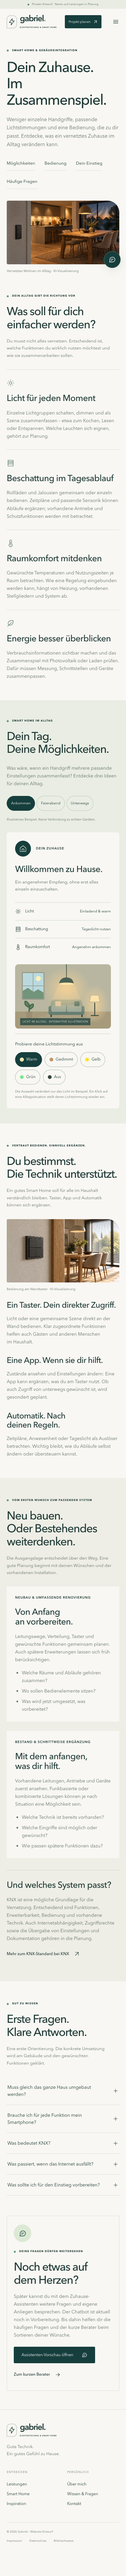
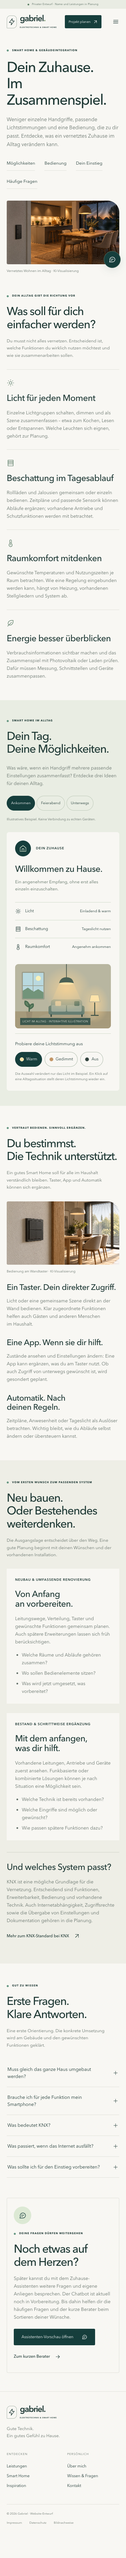
Lichtsimulation auf ruhige alltagstaugliche Stimmungen reduzieren

Changed region(s): [[0.0587, 0.0312, 0.968, 0.9668], [0.0587, 0.9356, 0.1173, 0.9668], [0.9093, 0.8109, 0.9387, 0.8421]]

diff --git a/public/assets/styles.css b/public/assets/styles.css
@@ -1082,9 +1082,6 @@
 @layer components {
   .light-room { --lamp-color:#ffd694; --lamp-surface:#ffe3a9; --room-wall:#72786b; --room-floor:#696554; margin-top:25px; position:relative; border-radius:10px; overflow:hidden; }
   .light-room[data-light="dim"] { --lamp-color:#f8b968; --lamp-surface:#dcb17c; --room-wall:#39463e; --room-floor:#3d4237; }
-  .light-room[data-light="yellow"] { --lamp-color:#ffe027; --lamp-surface:#ffeb78; --room-wall:#777650; --room-floor:#6a6440; }
-  .light-room[data-light="green"] { --lamp-color:#7de78e; --lamp-surface:#adf3b4; --room-wall:#436553; --room-floor:#435d44; }
-  .light-room[data-light="red"] { --lamp-color:#f45c5c; --lamp-surface:#ff8585; --room-wall:#704543; --room-floor:#60403b; }
   .light-room[data-light="off"] { --lamp-color:#000; --lamp-surface:#858a79; --room-wall:#273b3e; --room-floor:#303e3a; }
   .light-room[data-time="day"] { --window-sky:#b9d9df; --sky-light:#fff4b6; --window-landscape:#72947a; }
   .light-room[data-time="day"][data-light="warm"] { --room-wall:#b8b6a0; --room-floor:#a69a7b; }
@@ -1101,8 +1098,7 @@
   .light-options button { display:flex; align-items:center; gap:7px; border:1px solid #a7b6a5; border-radius:25px; background:transparent; padding:10px 13px; min-height:44px; font-size:12px; }
   .light-options button[aria-pressed="true"] { border-color:var(--petrol); background:var(--petrol); color:white; }
   .light-swatch { width:12px; height:12px; border-radius:50%; border:1px solid #ffffff70; }
-  .light-swatch.red { background:#f45c5c; }
-  .light-swatch.warm { background:#ffe3a9; } .light-swatch.dim { background:#c39565; } .light-swatch.yellow { background:#ffe027; } .light-swatch.green { background:#7de78e; } .light-swatch.off { background:#30413b; }
+  .light-swatch.warm { background:#ffe3a9; } .light-swatch.dim { background:#c39565; } .light-swatch.off { background:#30413b; }
   .light-manual-note { color:var(--muted); font-size:10px; margin-top:13px; }
   html:not(.js) .light-controls { display:none; }
   .smart-jump-links { display:flex; flex-wrap:wrap; gap:12px 28px; margin-top:-15px; margin-bottom:35px; font-size:13px; }

diff --git a/public/assets/app.js b/public/assets/app.js
@@ -98,7 +98,7 @@ if (sceneData) {
   }
   positionRoom();
   mobileRoom.addEventListener("change", positionRoom);
-  const lightLabels = { warm: "Einladend & warm", dim: "Warm & gedimmt", yellow: "Gelbes Licht", green: "Grünes Licht", red: "Rotes Licht", off: "Gewählte Lichter aus" };
+  const lightLabels = { warm: "Einladend & warm", dim: "Warm & gedimmt", off: "Gewählte Lichter aus" };
   function setLight(mode) {
     room.dataset.light = mode;
     room.setAttribute("aria-label", "Wohnraum mit zwei Lampen " + (room.dataset.time === "day" ? "bei Tageslicht" : "am Abend") + ": " + lightLabels[mode]);

diff --git a/README.md b/README.md
@@ -14,7 +14,7 @@ Website für Gabriels mögliche spätere Selbstständigkeit im Bereich Elektrote
 Der erste lokale Entwurf ist umgesetzt: helle Gestaltung mit Petrol, echte Unterseiten, mobile Navigation und kurze Inhalte für Privatkunden.
 
 - Startseite, Leistungsübersicht und sechs Leistungsunterseiten: Neubau, Modernisierung, Licht, Smart Home, Photovoltaik sowie Energie und Laden.
-- Erweiterte Smart-Home-Seite mit eigenen Bildern, Funktionsübersicht, Bedienung, Einstieg im Bestand oder Neubau, fünf Antworten und Assistentenhinweis. Drei interaktive Alltagssituationen steuern eine illustrierte Raumansicht mit zwei Lampen. Warm, gedimmt, Gelb, Grün, Rot und Aus lassen sich zusätzlich direkt ausprobieren.
+- Erweiterte Smart-Home-Seite mit eigenen Bildern, Funktionsübersicht, Bedienung, Einstieg im Bestand oder Neubau, fünf Antworten und Assistentenhinweis. Drei interaktive Alltagssituationen steuern eine illustrierte Raumansicht mit zwei Lampen. Warm, gedimmt und Aus lassen sich zusätzlich direkt ausprobieren.
 - Inspiration mit vier eigenen Alltagsszenen: Orientierungslicht, Morgenroutine, Arbeits- und Wohnlicht sowie Energieüberblick.
 - Kurzer Berater mit fünf Fragen, begründeten Ansätzen und bearbeitbarer Übergabe in den Projektplaner.
 - Über mich, Kontakt sowie durchsuchbare häufige Fragen.

diff --git a/docs/PROJEKTSTAND.md b/docs/PROJEKTSTAND.md
@@ -4,6 +4,9 @@ Stand: 29.10.2026 · interaktive Lichtsimulation ergänzt
 
 ## Aktueller Stand
 
+- Gestalterische Korrektur nach Gabriels Feedback: Bunte Lichtfarben wirken ihm zu unseriös. Gelb, Grün und Rot wurden aus der Simulation entfernt; Warm, Gedimmt und Aus bleiben. Die Tageszeiten und Szenenwechsel bleiben erhalten. Branch: `feat/smart-home-ruhige-lichtstimmungen`.
+
+
 - Rot als zusätzliche manuelle Lichtfarbe ergänzt: Lampen, Lichtkegel, Raumtönung und Beschriftung reagieren gemeinsam. Bestehende Alltagssituationen behalten ihre Lichtvorgaben. Branch: `feat/smart-home-rotes-licht`.
 
 
